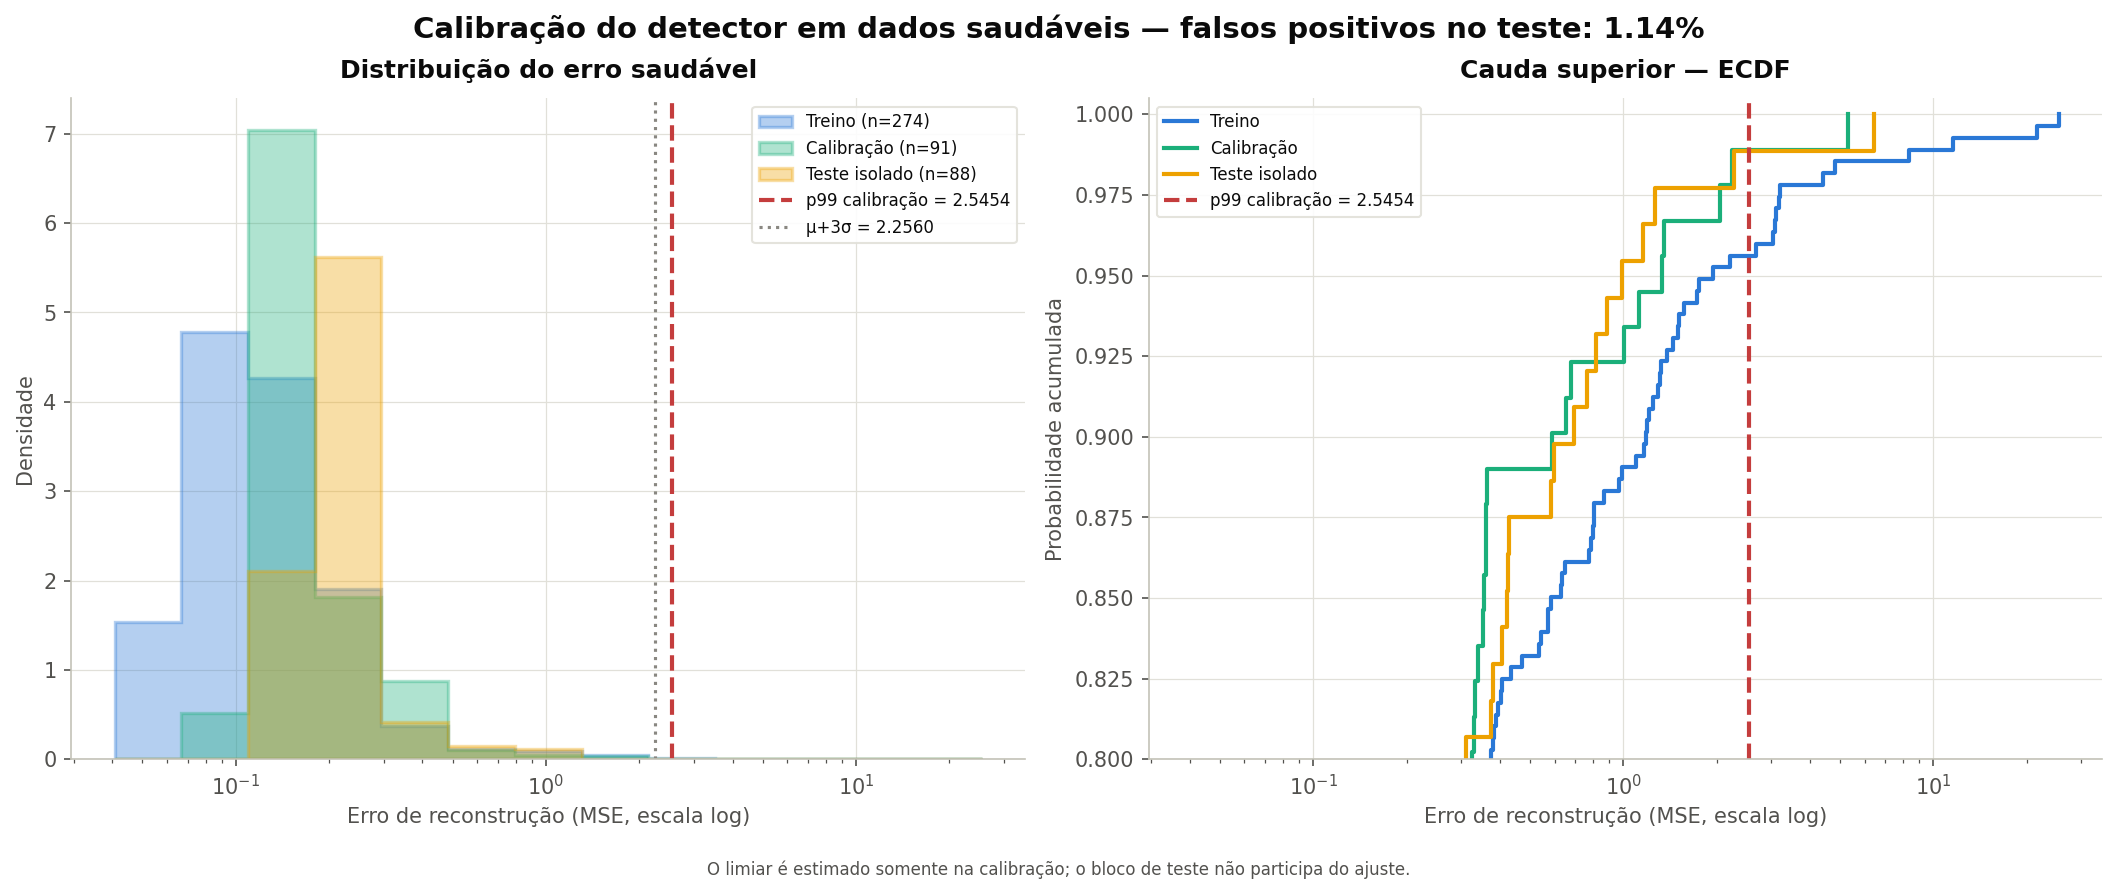
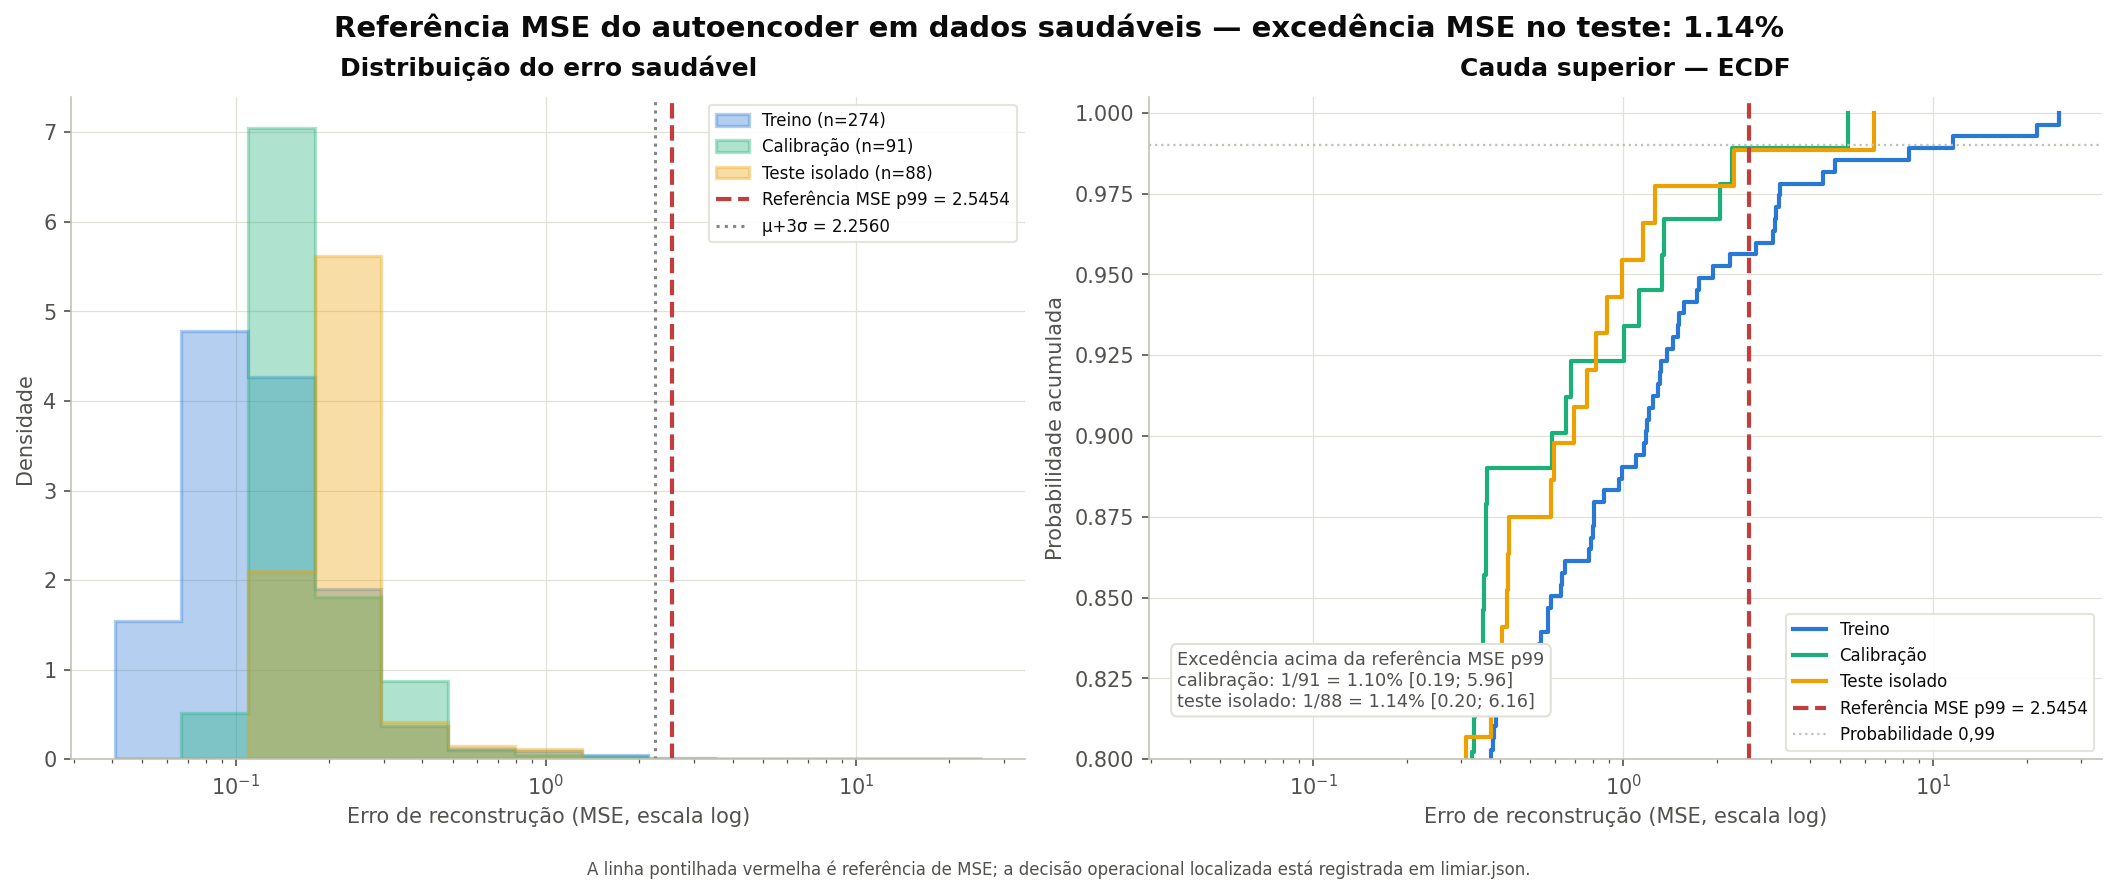
chore: atualiza artefatos academicos do autoencoder

diff --git a/resultados/autoencoder/calibracao_autoencoder.md b/resultados/autoencoder/calibracao_autoencoder.md
@@ -1,0 +1,16 @@
+# Calibração acadêmica do Autoencoder
+
+> Split temporal com purga. O bloco de teste isolado não participa do scaler, do early stopping nem da escolha de limiar.
+
+- Escore operacional: `localizado / percentil efetivo 99.9`.
+- Limiar operacional (`score_threshold`): `7.826176`.
+- Referência MSE p99 para gráficos de reconstrução: `2.545433`.
+- Intervalos entre colchetes são IC95% de Wilson para a proporção de excedências.
+
+| Bloco | n | MSE mediana | MSE IQR | MSE p99 | > ref. MSE p99 | Escore mediana | > limiar operacional |
+|---|---:|---:|---:|---:|---:|---:|---:|
+| treino | 274 | 0.1619 | 0.1643 | 9.2128 | 12/274 = 4.38% [2.52; 7.50] | 4.1611 | 62/274 = 22.63% [18.07; 27.94] |
+| calibracao | 91 | 0.1772 | 0.1598 | 2.5454 | 1/91 = 1.10% [0.19; 5.96] | 1.3842 | 4/91 = 4.40% [1.72; 10.76] |
+| teste_isolado | 88 | 0.2319 | 0.0648 | 2.8086 | 1/88 = 1.14% [0.20; 6.16] | 4.2664 | 9/88 = 10.23% [5.47; 18.31] |
+
+Observação metodológica: os gráficos `distribuicao_erro.png` e `erro_temporal.png` estão na escala MSE; a decisão operacional do pipeline usa o escore canônico registrado em `limiar.json`.
